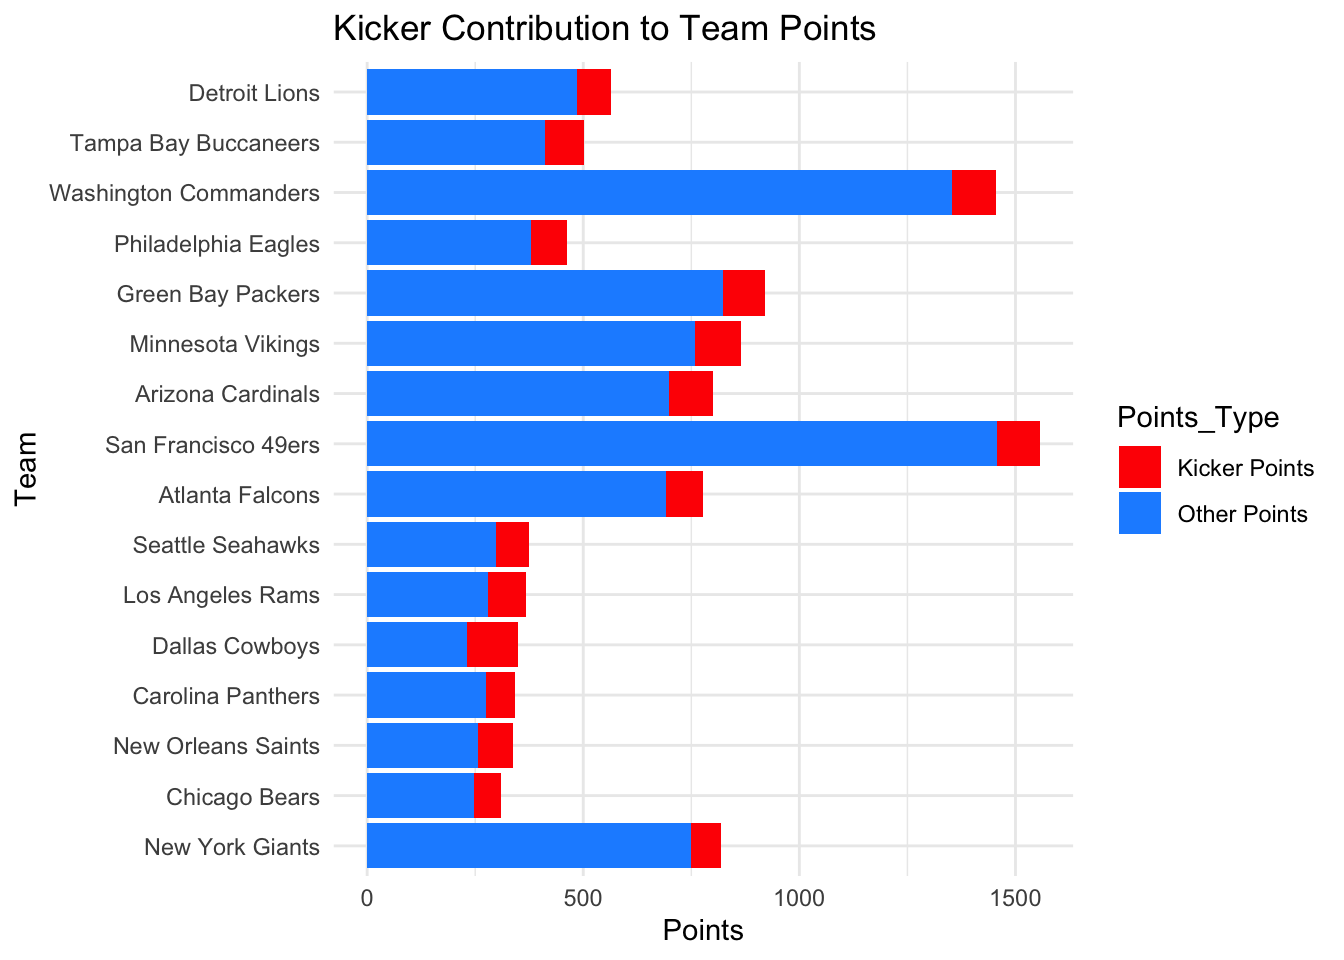
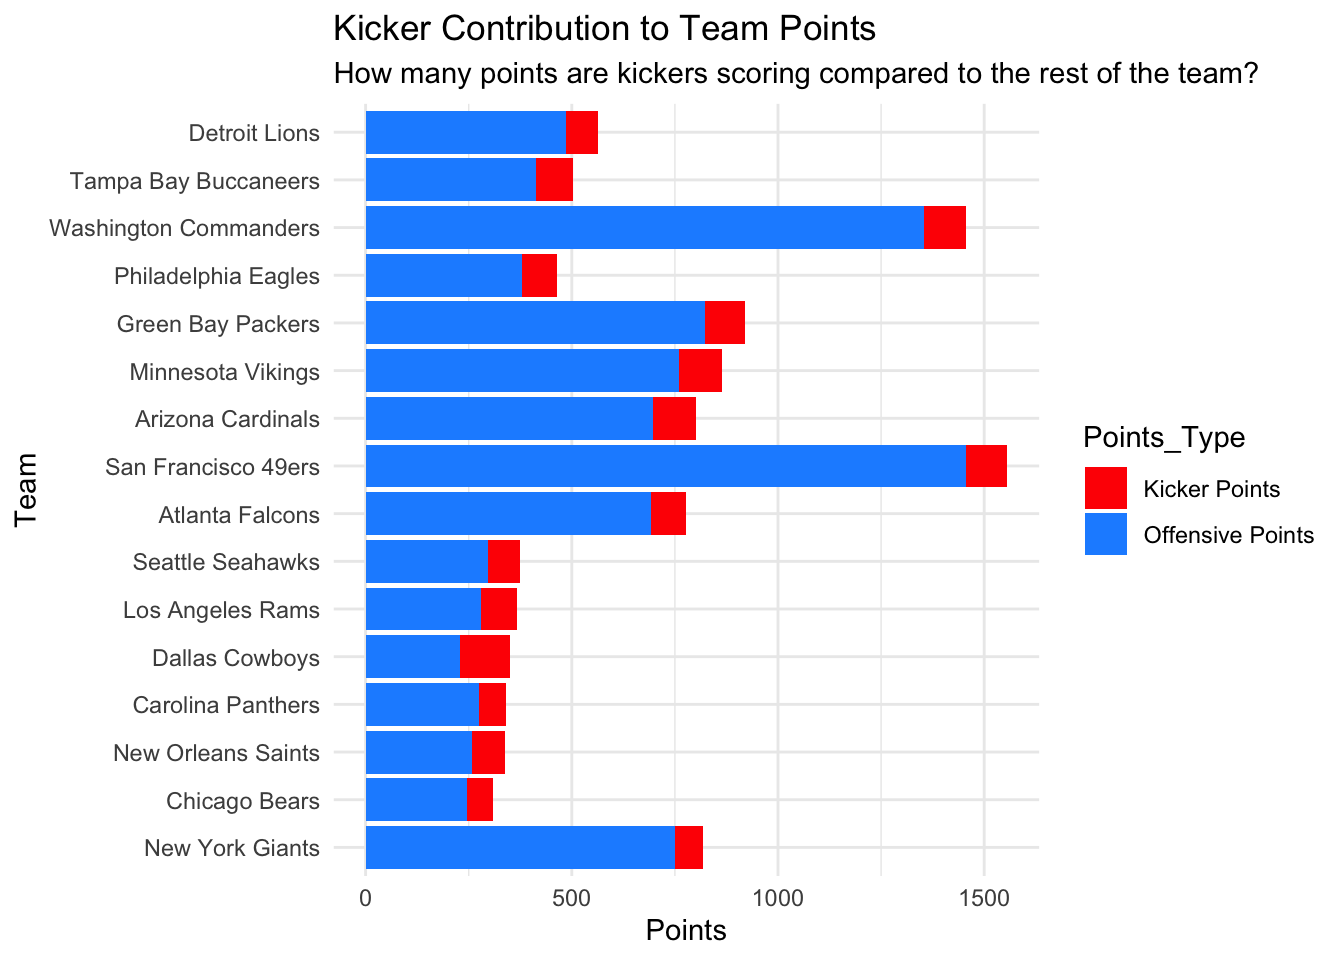
penultimaterender

diff --git a/posts/kicker-value-to-getting-wins/index.html b/posts/kicker-value-to-getting-wins/index.html
@@ -268,7 +268,7 @@ pre > code.sourceCode > span > a:first-child::before { text-decoration: underlin
 </div>
 <p>If a kicker “makes or breaks” the season, then the teams with the most accurate kickers should cluster toward the top of the graph. But that is not the reality. In fact, this graph demonstrates that there is little correlation at all between an accurate kicker and a winning team.</p>
 <p>We can also see that a shaky kicker doesn’t automatically ruin a season. Even the teams with less accurate kickers have better win-loss percentages than teams with significantly more accurate feet behind the ball.</p>
-<p>But that can’t be right? Thousands of screens across America have been turned off in stunned silence after a missed field goal. The reverberations of the ball off the uprights has caused football fans everywhere to lose sleep.</p>
+<p>But that can’t be, right? Thousands of screens across America have been turned off in stunned silence after a missed field goal. The reverberations of the ball off the uprights have caused football fans everywhere to lose sleep. There has got to be a bigger effect.</p>
 <p>Let’s try another visual, this time looking at how many points the kickers are responsible for in comparison to the rest of the team.</p>
 <div class="cell">
 <details class="code-fold">
@@ -291,8 +291,8 @@ pre > code.sourceCode > span > a:first-child::before { text-decoration: underlin
 <span id="cb2-16"><a href="#cb2-16" aria-hidden="true" tabindex="-1"></a>  <span class="fu">geom_col</span>() <span class="sc">+</span></span>
 <span id="cb2-17"><a href="#cb2-17" aria-hidden="true" tabindex="-1"></a>  <span class="fu">coord_flip</span>() <span class="sc">+</span></span>
 <span id="cb2-18"><a href="#cb2-18" aria-hidden="true" tabindex="-1"></a>  <span class="fu">scale_fill_manual</span>(<span class="at">values =</span> <span class="fu">c</span>(<span class="st">"kicker_PTS"</span> <span class="ot">=</span> <span class="st">"red"</span>, <span class="st">"other_PTS"</span> <span class="ot">=</span> <span class="st">"dodgerblue"</span>),</span>
-<span id="cb2-19"><a href="#cb2-19" aria-hidden="true" tabindex="-1"></a>                    <span class="at">labels =</span> <span class="fu">c</span>(<span class="st">"Kicker Points"</span>, <span class="st">"Other Points"</span>)) <span class="sc">+</span></span>
-<span id="cb2-20"><a href="#cb2-20" aria-hidden="true" tabindex="-1"></a>  <span class="fu">labs</span>(<span class="at">title =</span> <span class="st">"Kicker Contribution to Team Points"</span>, <span class="at">x =</span> <span class="st">"Team"</span>, <span class="at">y =</span> <span class="st">"Points"</span>) <span class="sc">+</span></span>
+<span id="cb2-19"><a href="#cb2-19" aria-hidden="true" tabindex="-1"></a>                    <span class="at">labels =</span> <span class="fu">c</span>(<span class="st">"Kicker Points"</span>, <span class="st">"Offensive Points"</span>)) <span class="sc">+</span></span>
+<span id="cb2-20"><a href="#cb2-20" aria-hidden="true" tabindex="-1"></a>  <span class="fu">labs</span>(<span class="at">title =</span> <span class="st">"Kicker Contribution to Team Points"</span>, <span class="at">subtitle =</span> <span class="st">"How many points are kickers scoring compared to the rest of the team?"</span>, <span class="at">x =</span> <span class="st">"Team"</span>, <span class="at">y =</span> <span class="st">"Points"</span>) <span class="sc">+</span></span>
 <span id="cb2-21"><a href="#cb2-21" aria-hidden="true" tabindex="-1"></a>  <span class="fu">theme_minimal</span>()</span></code></pre></div><button title="Copy to Clipboard" class="code-copy-button"><i class="bi"></i></button></div>
 </details>
 <div class="cell-output-display">
@@ -303,8 +303,9 @@ pre > code.sourceCode > span > a:first-child::before { text-decoration: underlin
 </div>
 </div>
 </div>
-<p>Here we can see that kickers contributed a fairly consistent amount of points across NFC teams in the 2024 season. It is clear that the majority of points scored are coming from offensive players but this graph also tells another interesting story.</p>
-<p>That low scoring chunk of teams all have kickers that scored about the same amount as the high scoring teams, meaning teams that have a less effective offense rely more on their kickers to score them points. Inversely, the higher scoring teams don’t have smaller amounts of kicker points which shows that even elite offenses lean on their kicker to finish drives.</p>
+<p>In the 2024 season across the board, it is clear that the majority of points scored are coming from offensive players, not the kickers. While the number of points scored by the kicker was fairly consistent, the variations in the ratio compared to offensive points shed light on when kickers may truly play a more important part in a team’s success.</p>
+<p>The low scoring chunk of teams all have kickers that scored about the same amount as the high scoring teams, meaning teams that have a less effective offense rely more on their kickers to score them points.</p>
+<p>The next visualization goes a little deeper into what kicker performance meant for each team in the NFC in 2024.</p>
 <div class="cell">
 <details class="code-fold">
 <summary>Code</summary>
@@ -354,7 +355,11 @@ pre > code.sourceCode > span > a:first-child::before { text-decoration: underlin
 </div>
 </div>
 </div>
-<p>Here, you can see the Cowboys have a strong kicker based on points scored, however, that kicker is responsible for almost 35% of his teams’ points. Even the best kicker in the world cannot make up for a lack of scoring by the rest of his team. The Lions are a display of how overall team strength is affected when both the kicker and the offense do their jobs in running up the score.</p>
+<p>This tells us a lot about how important kickers are to each individual team. The teams in the middle re-enforce the earlier sentiment that kickers have little effect on overall team strength, but there are interesting stories in the anomalies.</p>
+<p>The Cowboys stick out as they have a strong kicker based on points scored. However, that kicker handled almost 35% of his team’s points. Even the best kicker in the world cannot make up for a lack of scoring by the rest of his team.</p>
+<p>The Lions show the flip side of that coin. Their team’s strength was high, and their kicker’s contribution was low, meaning that they were ending most of their drives in touchdowns rather than field goals, which ultimately resulted in a more successful season.</p>
+<p>The sad little point at the bottom, the Carolina Panthers, are an interesting case of struggling so badly to get into scoring range that their kicker couldn’t be a factor in the season’s outcome at all.</p>
+<p>In conclusion, be nicer to your kickers. Their points being scored in more high-stakes situations is caused by a failure in the offense to perform as they should. If the offense can’t do their job, neither can the kicker, and even if the kicker didn’t, it still would not have a significant outcome on the season’s result.</p>
 
 
 

diff --git a/index.html b/index.html
@@ -209,7 +209,7 @@ window.Quarto = {
 
 <div class="quarto-listing quarto-listing-container-default" id="listing-listing">
 <div class="list quarto-listing-default">
-<div class="quarto-post image-right" data-index="0" data-categories="Zm9vdGJhbGwlMkNuZmwlMkNraWNrZXI=" data-listing-date-sort="1763359200000" data-listing-file-modified-sort="1763425032767" data-listing-date-modified-sort="NaN" data-listing-reading-time-sort="6" data-listing-word-count-sort="1167">
+<div class="quarto-post image-right" data-index="0" data-categories="Zm9vdGJhbGwlMkNuZmwlMkNraWNrZXI=" data-listing-date-sort="1763359200000" data-listing-file-modified-sort="1763427576345" data-listing-date-modified-sort="NaN" data-listing-reading-time-sort="7" data-listing-word-count-sort="1367">
 <div class="thumbnail"><a href="./posts/kicker-value-to-getting-wins/index.html" class="no-external">
 
 <img loading="lazy" src="./posts/kicker-value-to-getting-wins/image.png" class="thumbnail-image">
